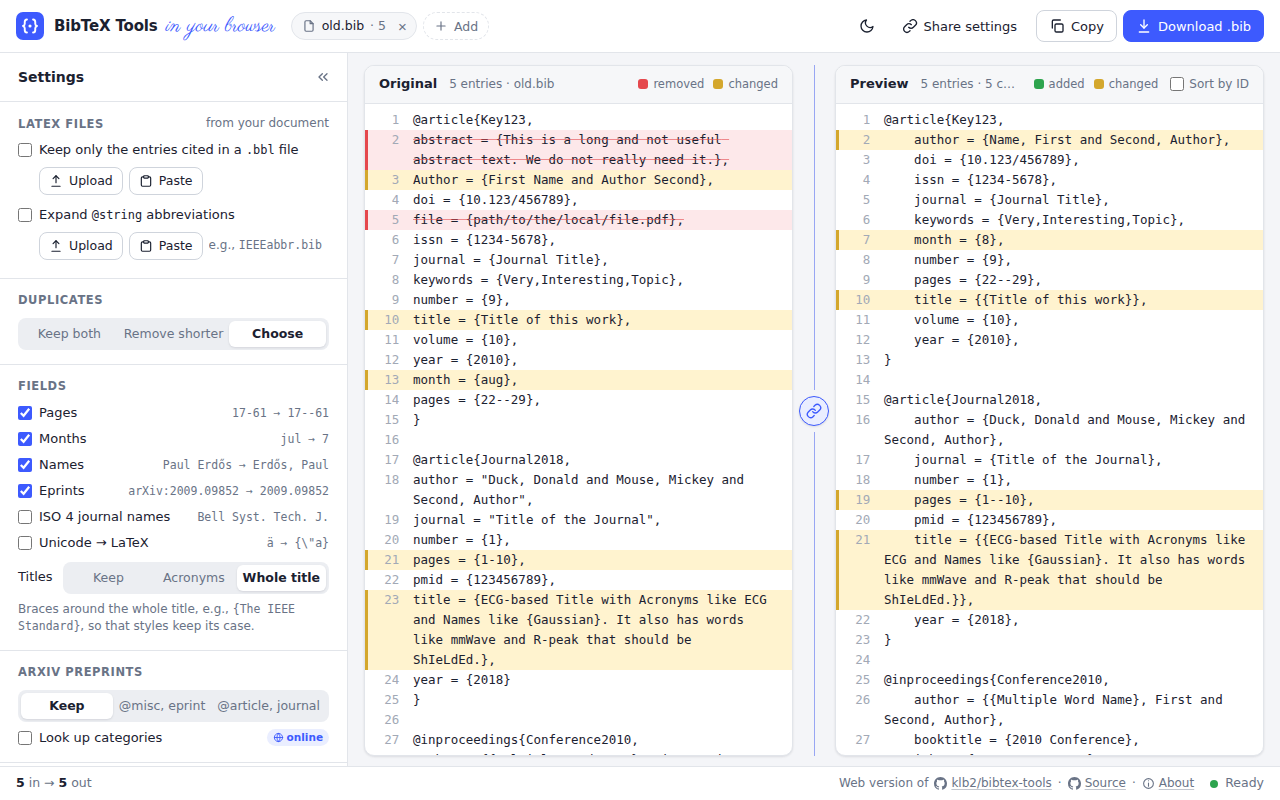
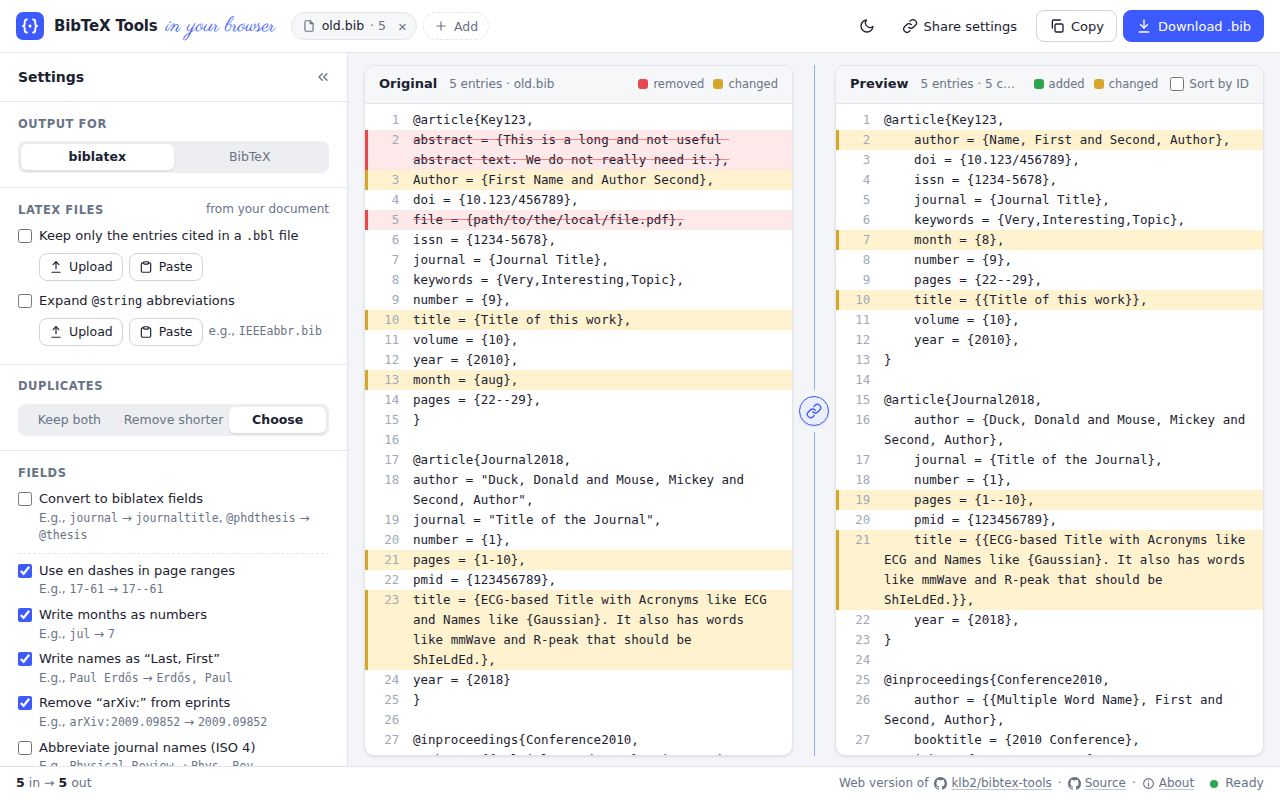
Say what each setting does, with an example below it
Like "Convert to biblatex fields", the settings say what they do, with an
example on a line below instead of a short one next to the name, which
was cut off in the sidebar: e.g., "Use en dashes in page ranges" with
"E.g., 17-61 → 17--61", "Write months as numbers", "Write names as
'Last, First'", "Remove 'arXiv:' from eprints", "Abbreviate journal names
(ISO 4)", "Convert special characters to LaTeX", "Look up arXiv
categories", and "Generate keys from author, year, and title". A setting
that is not available grays out its example as well. The screenshot in
the README shows the new sidebar.

Changed region(s): [[0.0, 0.4688, 0.25, 0.9688], [0.0, 0.125, 0.25, 0.4375]]

diff --git a/web/index.html b/web/index.html
@@ -135,16 +135,34 @@
 
         <section class="sec" aria-labelledby="sec-fields">
           <div class="sec-head"><h3 id="sec-fields">Fields</h3></div>
-          <div class="lead">
+          <div class="opt lead">
             <label class="check"><input type="checkbox" data-setting="fields.convert"><span id="convert-label">Convert to biblatex fields</span></label>
             <p class="hint" id="convert-hint"></p>
           </div>
-          <label class="check"><input type="checkbox" data-field="pages"><span>Pages</span><span class="ex">17-61 → 17--61</span></label>
-          <label class="check"><input type="checkbox" data-field="month"><span>Months</span><span class="ex">jul → 7</span></label>
-          <label class="check"><input type="checkbox" data-field="author"><span>Names</span><span class="ex">Paul Erdős → Erdős, Paul</span></label>
-          <label class="check"><input type="checkbox" data-field="eprint"><span>Eprints</span><span class="ex">arXiv:2009.09852 → 2009.09852</span></label>
-          <label class="check"><input type="checkbox" data-setting="fields.iso4"><span>ISO 4 journal names</span><span class="ex">Bell Syst. Tech. J.</span></label>
-          <label class="check"><input type="checkbox" data-setting="fields.unicode"><span>Unicode → LaTeX</span><span class="ex">ä → {\"a}</span></label>
+          <div class="opt">
+            <label class="check"><input type="checkbox" data-field="pages"><span>Use en dashes in page ranges</span></label>
+            <p class="hint">E.g., <code>17-61</code> → <code>17--61</code></p>
+          </div>
+          <div class="opt">
+            <label class="check"><input type="checkbox" data-field="month"><span>Write months as numbers</span></label>
+            <p class="hint">E.g., <code>jul</code> → <code>7</code></p>
+          </div>
+          <div class="opt">
+            <label class="check"><input type="checkbox" data-field="author"><span>Write names as “Last, First”</span></label>
+            <p class="hint">E.g., <code>Paul Erdős</code> → <code>Erdős, Paul</code></p>
+          </div>
+          <div class="opt">
+            <label class="check"><input type="checkbox" data-field="eprint"><span>Remove “arXiv:” from eprints</span></label>
+            <p class="hint">E.g., <code>arXiv:2009.09852</code> → <code>2009.09852</code></p>
+          </div>
+          <div class="opt">
+            <label class="check"><input type="checkbox" data-setting="fields.iso4"><span>Abbreviate journal names (ISO 4)</span></label>
+            <p class="hint">E.g., <code>Physical Review</code> → <code>Phys. Rev.</code></p>
+          </div>
+          <div class="opt">
+            <label class="check"><input type="checkbox" data-setting="fields.unicode"><span>Convert special characters to LaTeX</span></label>
+            <p class="hint">E.g., <code>ä</code> → <code>{\"a}</code> and <code>&amp;</code> → <code>\&amp;</code></p>
+          </div>
           <div class="option-row">
             <span class="option-label" id="titles-label">Titles</span>
             <div class="segmented" role="radiogroup" aria-labelledby="titles-label">
@@ -164,13 +182,22 @@
             <label title="@article with the ID in the journal field, like Google Scholar exports them"><input type="radio" name="arxiv-style" value="journal"><span>@article, journal</span></label>
           </div>
           <p class="hint" id="arxiv-style-hint" hidden></p>
-          <label class="check" title="Looks up the eprint IDs on arxiv.org, which uses the internet"><input type="checkbox" data-setting="arxiv.lookup"><span>Look up categories <span class="muted" id="arxiv-state"></span></span><span class="online"><svg viewBox="0 0 24 24" aria-hidden="true"><circle cx="12" cy="12" r="9"/><path d="M3 12h18"/><path d="M12 3a14 14 0 0 1 0 18"/><path d="M12 3a14 14 0 0 0 0 18"/></svg>online</span></label>
+          <div class="opt">
+            <label class="check" title="Looks up the eprint IDs on arxiv.org, which uses the internet"><input type="checkbox" data-setting="arxiv.lookup"><span>Look up arXiv categories <span class="muted" id="arxiv-state"></span></span><span class="online"><svg viewBox="0 0 24 24" aria-hidden="true"><circle cx="12" cy="12" r="9"/><path d="M3 12h18"/><path d="M12 3a14 14 0 0 1 0 18"/><path d="M12 3a14 14 0 0 0 0 18"/></svg>online</span></label>
+            <p class="hint">E.g., adds <code>primaryClass = {cs.IT}</code></p>
+          </div>
         </section>
 
         <section class="sec" aria-labelledby="sec-keys">
           <div class="sec-head"><h3 id="sec-keys">Keys</h3></div>
-          <label class="check" title="Entries with the same key get key:b, key:c, and so on. The first entry keeps its key, like LaTeX uses it."><input type="checkbox" data-setting="keys.rename"><span>Rename duplicate keys</span><span class="ex">key, key:b</span></label>
-          <label class="check" id="generate-keys"><input type="checkbox" data-setting="keys.generate"><span>Generate keys</span><span class="ex" id="generate-keys-ex">Shannon1948mathematical</span></label>
+          <div class="opt">
+            <label class="check" title="The first entry keeps its key, like LaTeX uses it."><input type="checkbox" data-setting="keys.rename"><span>Rename duplicate keys</span></label>
+            <p class="hint">E.g., two entries <code>key</code> → <code>key</code> and <code>key:b</code></p>
+          </div>
+          <div class="opt">
+            <label class="check"><input type="checkbox" data-setting="keys.generate"><span>Generate keys from author, year, and title</span></label>
+            <p class="hint" id="generate-keys-hint">E.g., <code>Shannon1948mathematical</code></p>
+          </div>
         </section>
 
         <section class="sec" aria-labelledby="sec-remove">

diff --git a/web/style.css b/web/style.css
@@ -327,22 +327,14 @@ body:not(.settings-shown) .rail { display: block; }
 .sec .sum { margin-left: auto; font-size: 12px; color: var(--muted); white-space: nowrap; }
 .sec-head .btn { margin-left: auto; }
 .sec .check { display: flex; }
-.check .ex {
-  flex: 0 1 auto;
-  min-width: 0;
-  margin-left: auto;
-  padding-left: 10px;
-  overflow: hidden;
-  text-overflow: ellipsis;
-  white-space: nowrap;
-  font: 11.5px/19px var(--code-font);
-  color: var(--muted);
-}
+/* A setting with an example below it */
+.opt { display: flex; flex-direction: column; gap: 1px; }
+.opt .hint { padding-left: 21px; }
+.opt.off .hint, .opt.off .hint strong { color: var(--faint); }
 /* A setting above the others of its section */
-.lead { display: flex; flex-direction: column; gap: 2px; padding-bottom: 8px; margin-bottom: 1px; border-bottom: 1px dashed var(--border); }
-.lead .hint { padding-left: 21px; }
+.opt.lead { padding-bottom: 8px; margin-bottom: 1px; border-bottom: 1px dashed var(--border); }
 .check.off { color: var(--faint); cursor: not-allowed; }
-.check.off .ex, .check.off .online { color: var(--faint); background: none; }
+.check.off .online { color: var(--faint); background: none; }
 .segmented label.off { cursor: not-allowed; }
 .segmented label.off span { color: var(--faint); }
 /* The output that the .bbl file sets */

diff --git a/web/app.js b/web/app.js
@@ -383,6 +383,7 @@ function setAvailable(input, reason) {
   label.dataset.title ??= label.title;
   input.disabled = Boolean(reason);
   label.classList.toggle("off", Boolean(reason));
+  input.closest(".opt")?.classList.toggle("off", Boolean(reason));
   label.title = reason || label.dataset.title;
 }
 
@@ -418,7 +419,9 @@ function applySettingsToUI() {
   const filtering = s.cited.enabled && Boolean(state.bbl);
   setAvailable($("[data-setting='keys.generate']"),
     filtering ? "Off while keeping only cited entries, since the keys must stay the cited ones" : "");
-  $("#generate-keys-ex").textContent = filtering ? "off while filtering" : "Shannon1948mathematical";
+  $("#generate-keys-hint").innerHTML = filtering
+    ? "Off while keeping only cited entries, since the keys must stay the cited ones."
+    : "E.g., <code>Shannon1948mathematical</code>";
   renderTags();
   renderFilesInfo();
   renderReview();
